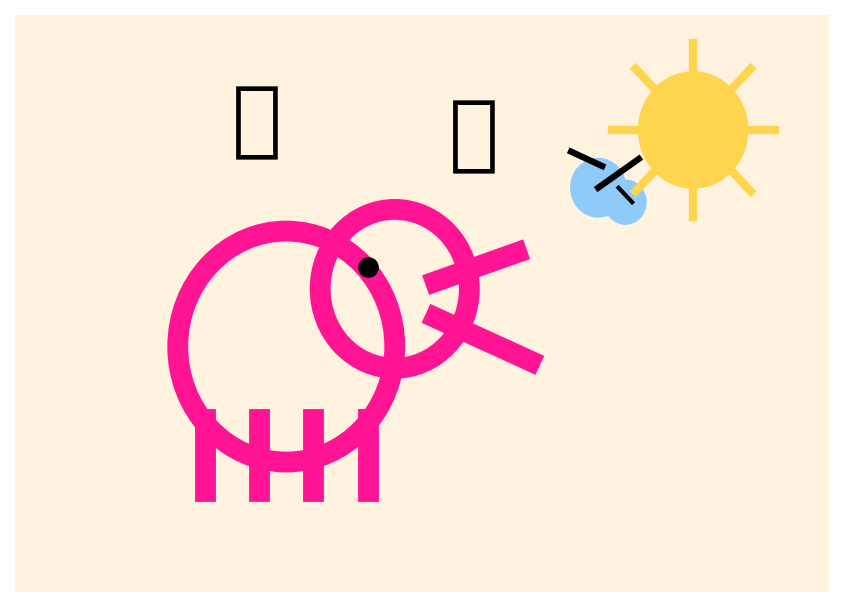
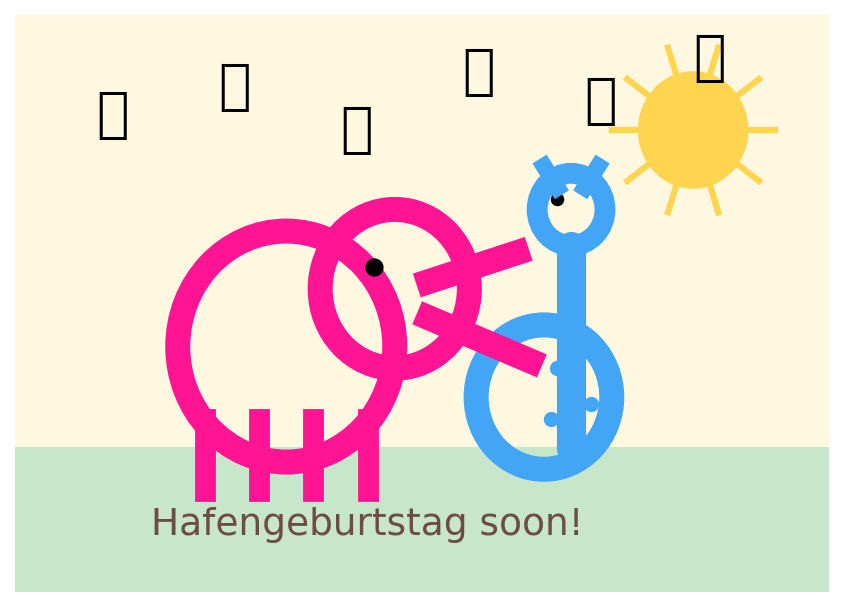
with pictures

diff --git a/streamlit_app.py b/streamlit_app.py
@@ -10,13 +10,13 @@ st.write(
 
 st.header("Meet Madlen")
 st.write(
-    "Madlen is excited for a run across the meadow with Nils. She is not worried about the Hafengeburtstag event later that day, "
+    "Madlen is excited for a run across the meadow with Nils, her blue giraffe friend. She is not worried about the Hafengeburtstag event later that day, "
     "because she knows her friends will still be there when she joins them afterward."
 )
 
 pink_elephant = base_path / "pink_elephant_plot.png"
 if pink_elephant.exists():
-    st.image(str(pink_elephant), caption="Madlen the pink elephant getting ready to run.", use_column_width=True)
+    st.image(str(pink_elephant), caption="Madlen and Nils getting ready for their run.", use_column_width=True)
 else:
     st.warning("Madlen picture not found. Generate `pink_elephant_plot.png` first.")
 
@@ -28,7 +28,7 @@ st.write(
 
 meadow_image = base_path / "madlen_meadow.png"
 if meadow_image.exists():
-    st.image(str(meadow_image), caption="Madlen dances under a rainbow.", use_column_width=True)
+    st.image(str(meadow_image), caption="Madlen and Nils running together under a rainbow.", use_column_width=True)
 else:
     st.warning("Meadow picture not found. Generate `madlen_meadow.png` first.")
 
@@ -40,7 +40,7 @@ st.write(
 
 friend_image = base_path / "madlen_friend.png"
 if friend_image.exists():
-    st.image(str(friend_image), caption="Madlen and Nils joining their friends later.", use_column_width=True)
+    st.image(str(friend_image), caption="Madlen and Nils arriving at Hafengeburtstag together.", use_column_width=True)
 else:
     st.warning("Friend picture not found. Generate `madlen_friend.png` first.")
 
